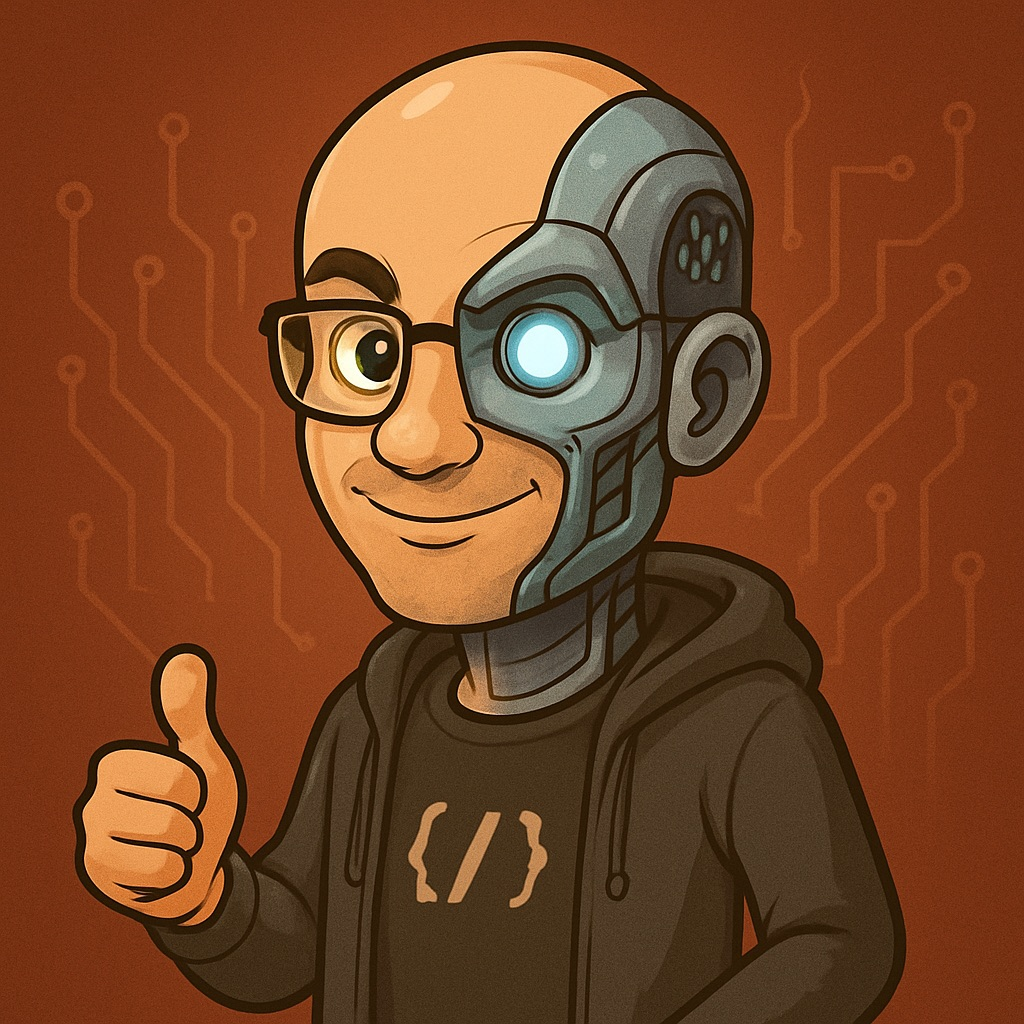
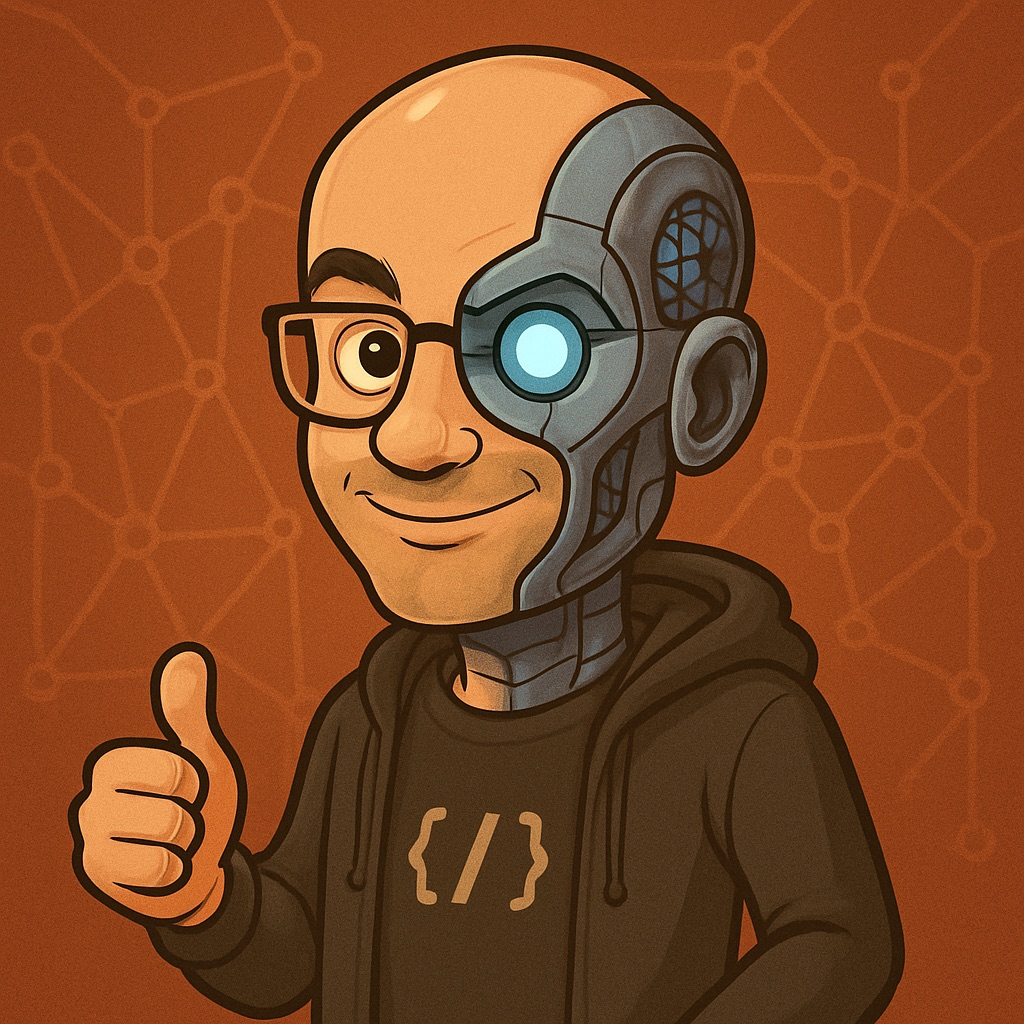
change ai image

diff --git a/src/components/HomepageFeatures/index.js b/src/components/HomepageFeatures/index.js
@@ -1,11 +1,13 @@
 import clsx from 'clsx';
 import Heading from '@theme/Heading';
 import styles from './styles.module.css';
+import Link from '@docusaurus/Link';
 
 const FeatureList = [
   {
     title: 'AI',
-    Svg: require('@site/static/img/ai.jpeg').default,
+    Svg: require('@site/static/img/AI.jpeg').default,
+    link: '/docs/AI',
     description: (
       <>
         GenAI, Reinforcement Learning, LLMs, and more.
@@ -15,6 +17,7 @@ const FeatureList = [
   {
     title: 'Tech',
     Svg: require('@site/static/img/code.jpeg').default,
+    link: '/docs/Tech',
     description: (
       <>
         From <code>code</code> to system design.
@@ -24,6 +27,7 @@ const FeatureList = [
   {
     title: 'Science',
     Svg: require('@site/static/img/boff.png').default,
+    link: '/docs/Science',
     description: (
       <>
         Science is in our DNA.
@@ -33,6 +37,7 @@ const FeatureList = [
   {
     title: 'Finance',
     Svg: require('@site/static/img/bean.png').default,
+    link: '/docs/Finance',
     description: (
       <>
         Pricing, Risk and Quant modelling.
@@ -41,19 +46,18 @@ const FeatureList = [
   },
 ];
 
-function Feature({ Svg, title, description }) {
+function Feature({ Svg, title, description, link }) {
   return (
     <div className={clsx('col col--4')}>
-      {/* <div className="text--center">
-        <Svg className={styles.featureSvg} role="img" />
-      </div> */}
-      <div className="text--center">
-        <img className={styles.featureSvg} src={Svg} role="img" />
-      </div>
-      <div className="text--center padding-horiz--md">
-        <Heading as="h3">{title}</Heading>
-        <p>{description}</p>
-      </div>
+      <Link to={link} className={styles.featureLink}>
+        <div className="text--center">
+          <img className={styles.featureSvg} src={Svg} role="img" />
+        </div>
+        <div className="text--center padding-horiz--md">
+          <Heading as="h3">{title}</Heading>
+          <p>{description}</p>
+        </div>
+      </Link>
     </div>
   );
 }
@@ -63,7 +67,6 @@ export default function HomepageFeatures() {
     <section className={styles.features}>
       <div className="container">
         <div className="row">
-
           {FeatureList.map((props, idx) => (
             <Feature key={idx} {...props} />
           ))}

diff --git a/docusaurus.config.js b/docusaurus.config.js
@@ -4,12 +4,12 @@
 // There are various equivalent ways to declare your Docusaurus config.
 // See: https://docusaurus.io/docs/api/docusaurus-config
 
-import {themes as prismThemes} from 'prism-react-renderer';
+import { themes as prismThemes } from 'prism-react-renderer';
 
 /** @type {import('@docusaurus/types').Config} */
 const config = {
   title: 'Sleptonium',
-  tagline: 'Articles on Tech, AI, Science, Financial Engineering and more',
+  tagline: 'Tech, AI, Science, Financial Engineering and more',
   //favicon: 'img/favicon.ico',
   favicon: 'img/boff.png',
 
@@ -30,8 +30,8 @@ const config = {
 
   // Mermaid
   markdown: {
-    mermaid: true, 
-    },
+    mermaid: true,
+  },
   themes: ['@docusaurus/theme-mermaid'],
 
   // Even if you don't use internationalization, you can use this field to set
@@ -104,7 +104,7 @@ const config = {
             position: 'left',
             label: 'Finance',
           },
-          {to: '/blog', label: 'Notes', position: 'right'},
+          { to: '/blog', label: 'Notes', position: 'right' },
           {
             href: 'mailto:invest@sleptonium.co.uk',
             label: 'Invest',

diff --git a/src/components/HomepageFeatures/styles.module.css b/src/components/HomepageFeatures/styles.module.css
@@ -9,3 +9,15 @@
   height: 200px;
   width: 200px;
 }
+
+.featureLink {
+  text-decoration: none;
+  color: inherit;
+  display: block;
+}
+
+.featureLink:hover {
+  text-decoration: none;
+  color: inherit;
+  opacity: 0.8;
+}

diff --git a/docs/AI/1.LLMs-2025-10.md b/docs/AI/1.LLMs-2025-10.md
@@ -118,8 +118,12 @@ Link dump and notes on AI mostly from 2025
 * [AlphaSignal on LinkedIn](https://www.linkedin.com/posts/alphasignal_someone-compiled-a-collection-of-top-mcp-activity-7364567379973963777-db4Z?utm_source=share&utm_medium=member_ios&rcm=ACoAAABZGVUBskNb8NeuSOcTrjzyH8Q_HsUxWuw)
   AlphaSignal shares a curated collection of the top MCP servers for building AI agents. This list helps developers find ready-made tools to extend the capabilities of their agents. AlphaSignal highlights how open-source MCP servers help developers automate operations. The post emphasizes the value of these tools in creating enterprise-grade AI agents. AlphaSignal provides a link to try out a specific tool or demo. This call to action encourages users to experience the technology firsthand.
 
+:::tip[Priority 1]
+
 * [Awesome LLM Apps](https://github.com/Shubhamsaboo/awesome-llm-apps)
   A GitHub repository titled "Awesome LLM Apps". It features a curated collection of impressive applications built with LLMs, AI Agents, and RAG, serving as inspiration for developers.
+
+:::
 
 * [Will Bryk on LinkedIn](https://www.linkedin.com/posts/william-bryk_announcing-8-partnerships-with-exa-today-activity-7387211795624669184-oAZX?utm_source=share&utm_medium=member_ios&rcm=ACoAAABZGVUBskNb8NeuSOcTrjzyH8Q_HsUxWuw)
   Will Bryk announces eight new partnerships with Exa. These collaborations aim to integrate Exa's search capabilities into a wider ecosystem of AI tools and platforms. Will Bryk highlights the reach of Exa's search technology. He explains how these partnerships will enable Exa to power search for thousands of AI apps and developers. Will Bryk lists some of the key partners, including n8n, Gumloop, CrewAI, Jan, and LangChain. This demonstrates the broad adoption of Exa's search API across the AI agent landscape.
